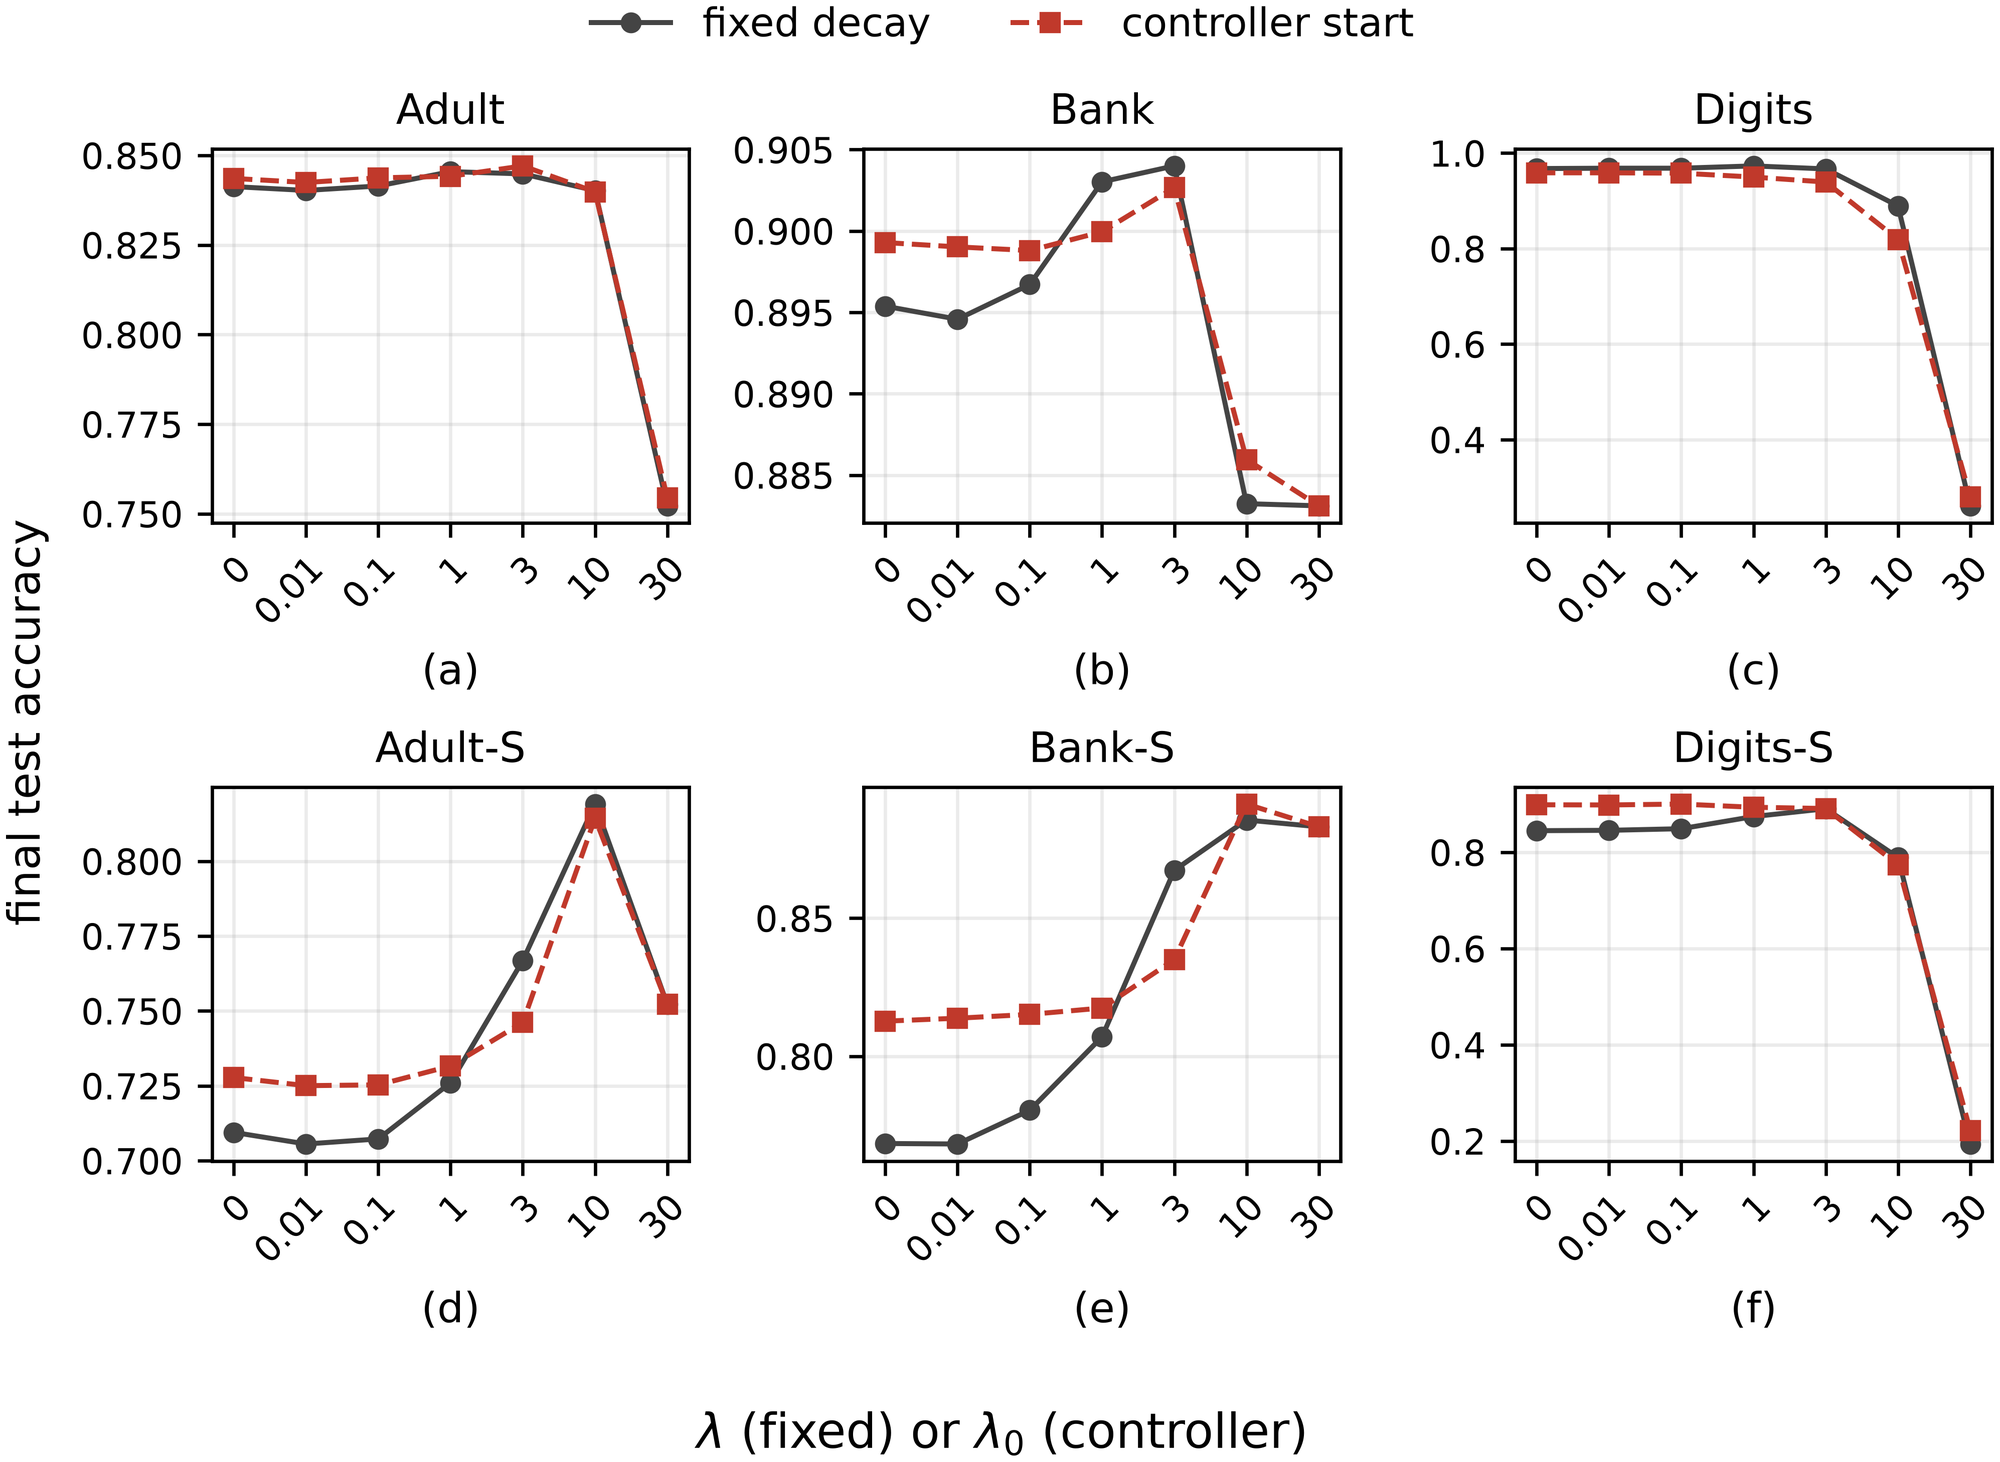
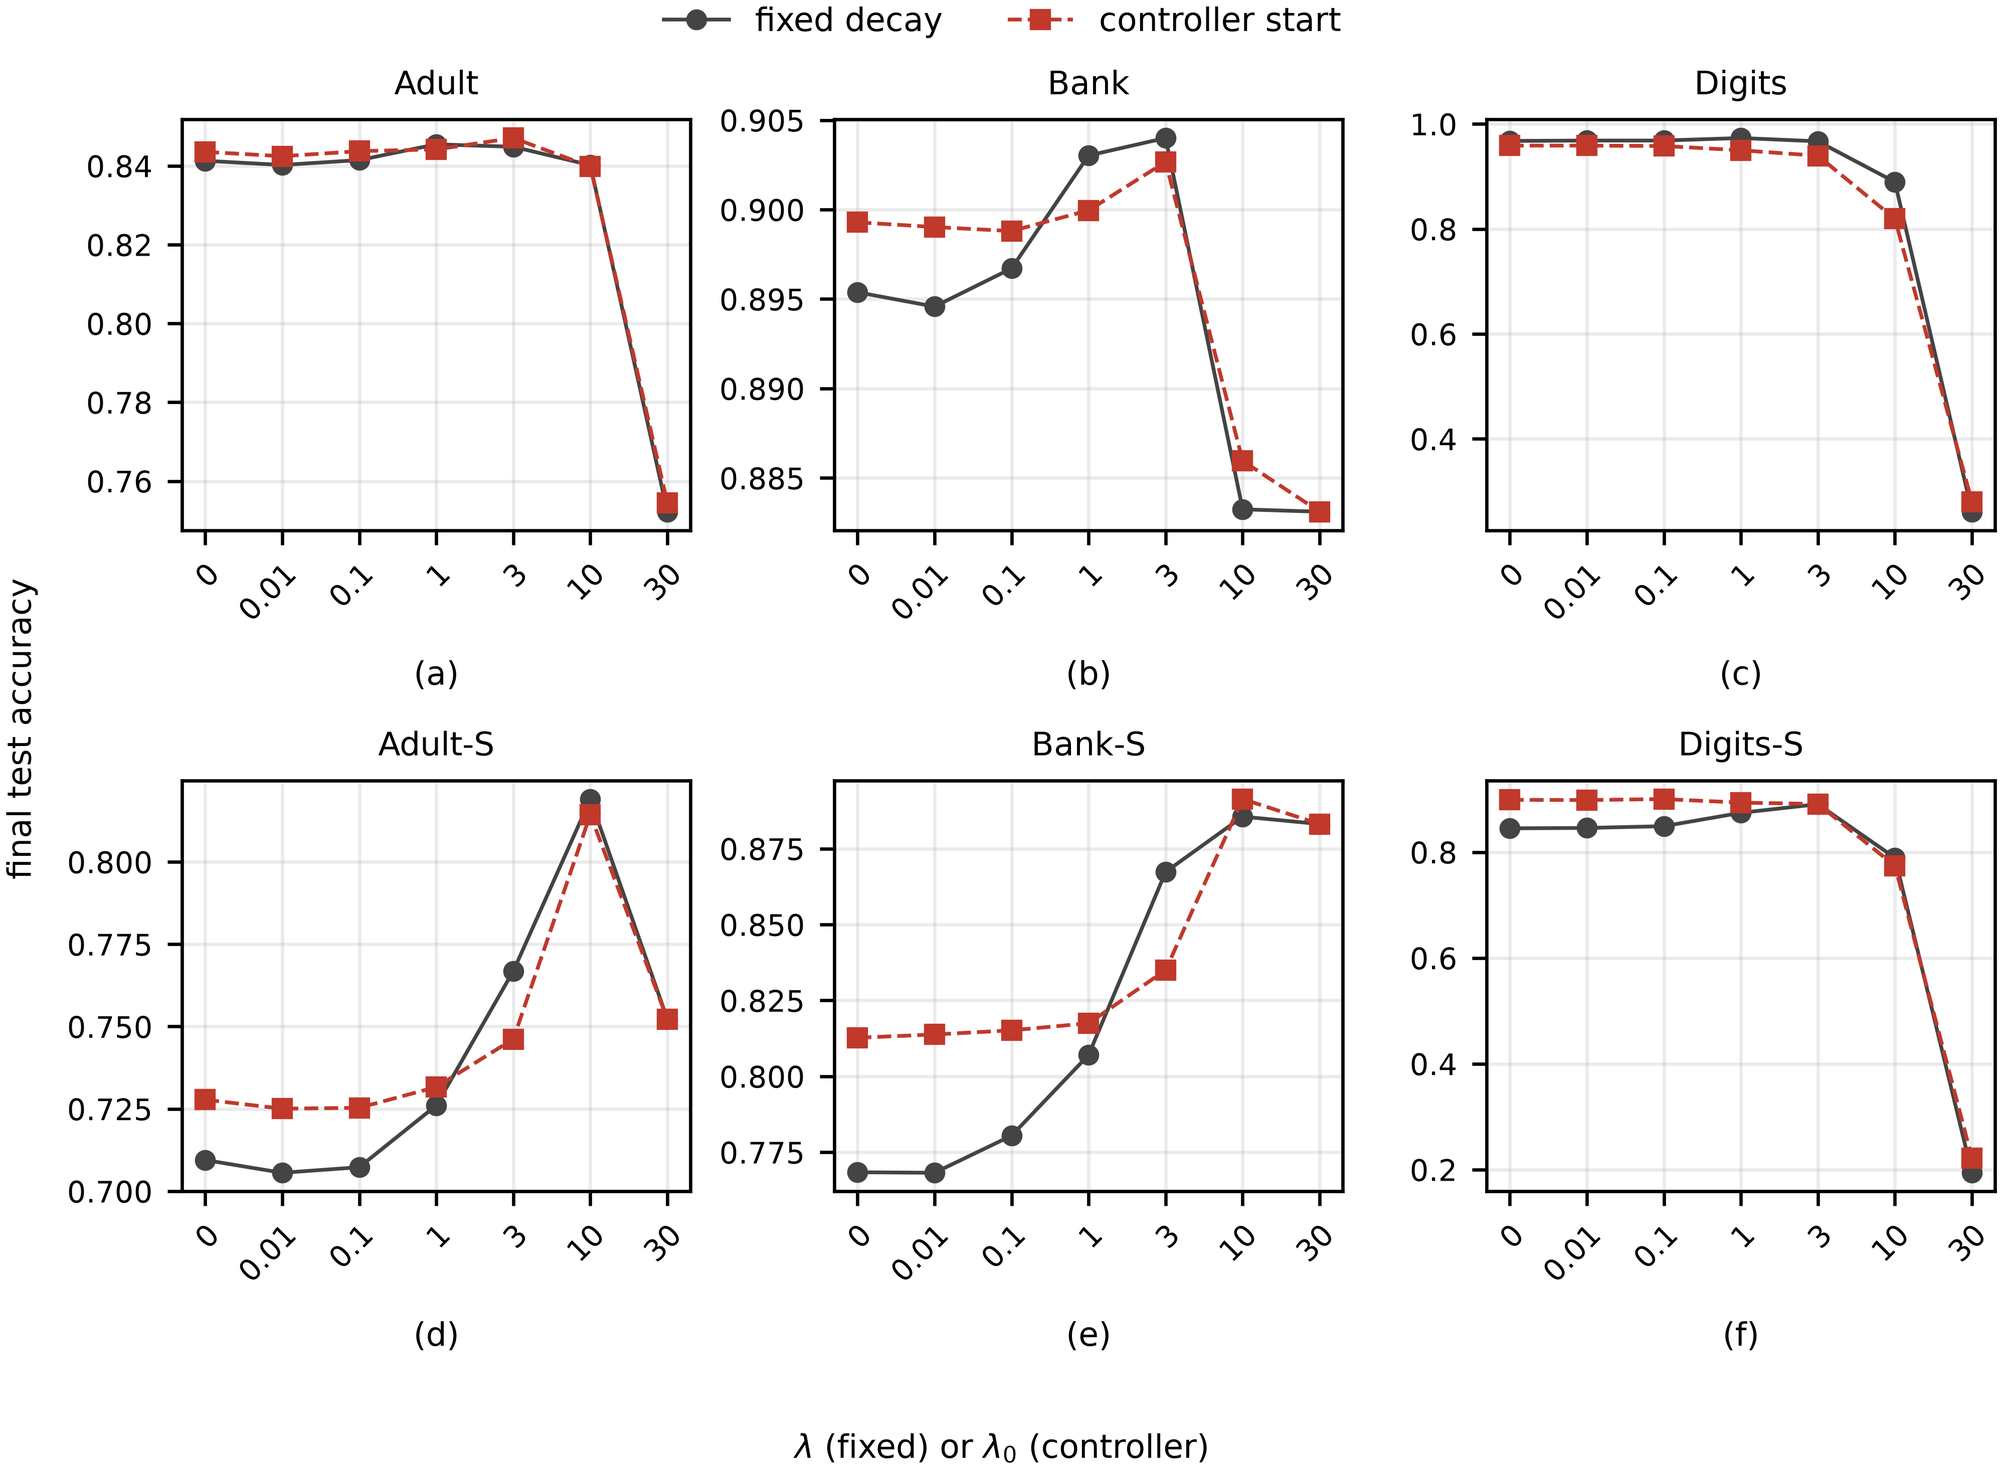
Refresh figure exports and plotting sources to the current study figures
The six PNGs in figures/ and the three plotting sources in src/predecessor/
now match the versions behind the study's current figures. The changes are
presentational (type sizes and line widths). VALIDATION.md records the
byte-identical regeneration from the committed result tables, and
SHA256SUMS.txt is refreshed for the changed files.

diff --git a/src/predecessor/make_figures_audit.py b/src/predecessor/make_figures_audit.py
@@ -8,6 +8,11 @@ fig4_signal_gap  : control signal and train-test gap, fixed lambda=0 vs controll
 fig5_baselines   : controller vs AdaDecay / AdamP / cosine / step (accuracy), 6 panels
 
 Outputs PNG (600 dpi) and vector PDF into the chosen figure directory.
+
+fig1, fig2 and fig4 print their tick labels at about 7.3 pt and every other
+text at about 8 pt, the scale of the streaming and Pareto figures, and every
+data line is three quarters of its earlier width (author requests,
+2026-09-30); the 7 pt print floor is kept.
 """
 from __future__ import annotations
 
@@ -18,6 +23,7 @@ import matplotlib
 
 matplotlib.use("Agg")
 import matplotlib.pyplot as plt  # noqa: E402
+from matplotlib.ticker import MaxNLocator  # noqa: E402
 import numpy as np  # noqa: E402
 import pandas as pd  # noqa: E402
 from PIL import Image, ImageChops, ImageOps  # noqa: E402
@@ -62,7 +68,7 @@ def add_panel_labels(axes, offset_pt: float | None = None) -> None:
                 textcoords="offset points",
                 ha="center",
                 va="top",
-                fontsize=10,
+                fontsize=7.8,
                 fontweight="normal",
                 annotation_clip=False,
             )
@@ -74,7 +80,7 @@ def add_panel_labels(axes, offset_pt: float | None = None) -> None:
             transform=ax.transAxes,
             ha="center",
             va="top",
-            fontsize=10,
+            fontsize=7.8,
             fontweight="normal",
             clip_on=False,
         )
@@ -126,29 +132,32 @@ def main() -> None:
         fx = [sub[(sub.method == "fixed") & np.isclose(sub.lam0, l)]["test_acc"].mean() for l in GRID]
         ct = [sub[(sub.method == "ctrl") & np.isclose(sub.lam0, l)]["test_acc"].mean() for l in GRID]
         x = xpos(GRID)
-        ax.plot(x, fx, "o-", label="fixed decay", color="#444", markersize=4, linewidth=1.2)
-        ax.plot(x, ct, "s--", label="controller start", color="#c0392b", markersize=4, linewidth=1.2)
-        ax.set_title(NICE[task], fontsize=10)
+        ax.plot(x, fx, "o-", label="fixed decay", color="#444", markersize=4, linewidth=0.9)
+        ax.plot(x, ct, "s--", label="controller start", color="#c0392b", markersize=4, linewidth=0.9)
+        ax.set_title(NICE[task], fontsize=7.8)
         ax.set_xticks(x)
         # Seven labels share about 1.6 in, so level labels touched ("0.00.010.1");
         # a 45-degree slant anchored at the tick keeps each one readable.
         ax.set_xticklabels([grid_label(l) for l in GRID], rotation=45, ha="right",
-                           rotation_mode="anchor", fontsize=8.5)
-        ax.tick_params(axis="y", labelsize=8.5)
+                           rotation_mode="anchor", fontsize=7.1)
+        ax.tick_params(axis="y", labelsize=7.1)
         ax.grid(alpha=0.25)
     handles, labels = axes[0, 0].get_legend_handles_labels()
-    fig.legend(handles, labels, fontsize=9.5, ncol=2, loc="upper center",
+    fig.legend(handles, labels, fontsize=7.8, ncol=2, loc="upper center",
                bbox_to_anchor=(0.5, 1.0), frameon=False)
-    # 11.5 pt keeps the lambda_0 subscript (0.7 of the label) above 8 pt in print.
-    fig.supxlabel(r"$\lambda$ (fixed) or $\lambda_0$ (controller)", fontsize=11.5)
-    fig.supylabel("final test accuracy", fontsize=10.5)
+    # The 7 pt floor is judged on the label; the lambda_0 subscript (0.7 of
+    # it) sits on the same horizontal line and inherits that verdict.
+    fig.supxlabel(r"$\lambda$ (fixed) or $\lambda_0$ (controller)", fontsize=7.8)
+    fig.supylabel("final test accuracy", fontsize=7.8)
     add_panel_labels(axes, offset_pt=31)
-    fig.tight_layout(rect=(0, 0, 1, 0.95), h_pad=0.8, w_pad=0.8)
+    fig.tight_layout(rect=(0, 0, 1, 0.97), h_pad=0.8, w_pad=0.8)
     save(fig, "fig1_sensitivity")
 
     # ---- fig2 lambda trajectories on noisy tasks, all starts ----
-    # Drawn at the printed width (about 6.84 in); the axis label and legend
-    # carry subscripts, so they stay at 11.5 pt to keep the subscript above 8 pt.
+    # Drawn at the printed width (about 6.84 in). The legend subscripts sit on
+    # horizontal lines and inherit their label's size; the rotated axis label
+    # names the coefficient as in Figure 5 ("controller lambda"), because a
+    # rotated subscript is measured as a run of its own under the 7 pt floor.
     fig, axes = plt.subplots(1, 3, figsize=(6.9, 3.1), sharey=True)
     for ax, task in zip(axes, NOISY):
         sub = tr[(tr.task == task) & (tr.method == "ctrl") & (tr.lr == lr0)]
@@ -162,17 +171,17 @@ def main() -> None:
             ax.plot(m.index, m.values, label=f"$\\lambda_0$={grid_label(lam0)}",
                     ls=TRAJ_STYLES[idx % len(TRAJ_STYLES)],
                     marker=TRAJ_MARKERS[idx % len(TRAJ_MARKERS)],
-                    markevery=(idx, 7), markersize=3.2, linewidth=1.1)
-        ax.set_title(NICE[task], fontsize=10)
-        ax.set_xlabel("epoch", fontsize=10)
-        ax.tick_params(axis="both", labelsize=8.5)
+                    markevery=(idx, 7), markersize=3.2, linewidth=0.825)
+        ax.set_title(NICE[task], fontsize=7.8)
+        ax.set_xlabel("epoch", fontsize=7.8)
+        ax.tick_params(axis="both", labelsize=7.1)
         ax.grid(alpha=0.25)
-    axes[0].set_ylabel(r"controller $\lambda_t$", fontsize=11.5)
+    axes[0].set_ylabel(r"controller $\lambda$", fontsize=7.8)
     handles, labels = axes[0].get_legend_handles_labels()
     fig.legend(
         handles,
         labels,
-        fontsize=11.5,
+        fontsize=7.8,
         ncol=4,
         loc="upper center",
         bbox_to_anchor=(0.5, 1.0),
@@ -183,7 +192,7 @@ def main() -> None:
     # Below the "epoch" label, not at a fraction of the short axes height,
     # where "(a)" printed on top of "epoch".
     add_panel_labels(axes, offset_pt=34)
-    fig.tight_layout(rect=(0, 0, 1, 0.80), w_pad=0.6)
+    fig.tight_layout(rect=(0, 0, 1, 0.90), w_pad=0.6)
     save(fig, "fig2_lambda_traj")
 
     # ---- fig3 bars: oracle/median/controller for acc, gap, ece ----
@@ -214,27 +223,34 @@ def main() -> None:
     save(fig, "fig3_bars")
 
     # ---- fig4 signal vs gap: fixed lambda=0 vs controller on Adult-S and Digits-S ----
-    # Drawn at the printed width (about 6.84 in). The right-axis label and one
-    # legend entry carry a subscript, so they stay at 11 pt (subscript > 7 pt).
-    fig, axes = plt.subplots(1, 2, figsize=(6.9, 3.3))
+    # Drawn at the printed width (about 6.84 in), so the sizes below print as
+    # set. The s_t symbol stays in the horizontal legend; the rotated
+    # right-axis label names the quantity without a subscript, which the 7 pt
+    # floor would measure as a run of its own. The y locators keep the tick
+    # sets of the earlier, shorter axes and the panel labels sit a fixed
+    # distance below the axes, so the plots fill the band the smaller legend
+    # left free while the printed height stays about 207 pt.
+    fig, axes = plt.subplots(1, 2, figsize=(6.9, 3.0))
     legend_handles, legend_labels = [], []
     for ax, task in zip(axes, ["adult_n20", "digits_n20"]):
         f0 = tr[(tr.task == task) & (tr.method == "fixed") & np.isclose(tr.lam0.fillna(-1), 0.0) & (tr.lr == lr0)]
         c0 = tr[(tr.task == task) & (tr.method == "ctrl") & np.isclose(tr.lam0.fillna(-1), 0.0) & (tr.lr == lr0)]
         fg = f0.groupby("ep")["gap"].mean()
         cg = c0.groupby("ep")["gap"].mean()
-        ax.plot(fg.index, fg.values, "-", label="gap (fixed $\\lambda$=0)", color="#444", linewidth=1.2)
-        ax.plot(cg.index, cg.values, "--", label="gap (controller)", color="#c0392b", linewidth=1.2)
+        ax.plot(fg.index, fg.values, "-", label="gap (fixed $\\lambda$=0)", color="#444", linewidth=0.9)
+        ax.plot(cg.index, cg.values, "--", label="gap (controller)", color="#c0392b", linewidth=0.9)
         if "s" in c0:
             cs = c0.groupby("ep")["s"].mean()
             ax2 = ax.twinx()
-            ax2.plot(cs.index, cs.values, ":", color="#2c7fb8", label="signal $s_t$ (ctrl)", linewidth=1.3)
-            ax2.set_ylabel("control signal $s_t$", fontsize=11)
-            ax2.tick_params(axis="y", labelsize=8.5)
-        ax.set_title(NICE[task], fontsize=10)
-        ax.set_xlabel("epoch", fontsize=10)
-        ax.set_ylabel("train-test gap", fontsize=10)
-        ax.tick_params(axis="both", labelsize=8.5)
+            ax2.plot(cs.index, cs.values, ":", color="#2c7fb8", label="signal $s_t$ (ctrl)", linewidth=0.975)
+            ax2.set_ylabel("control signal", fontsize=7.8)
+            ax2.tick_params(axis="y", labelsize=7.1)
+            ax2.yaxis.set_major_locator(MaxNLocator(nbins=7, steps=[1, 2, 2.5, 5, 10]))
+        ax.set_title(NICE[task], fontsize=7.8)
+        ax.set_xlabel("epoch", fontsize=7.8)
+        ax.set_ylabel("train-test gap", fontsize=7.8)
+        ax.tick_params(axis="both", labelsize=7.1)
+        ax.yaxis.set_major_locator(MaxNLocator(nbins=7, steps=[1, 2, 2.5, 5, 10]))
         ax.grid(alpha=0.25)
         if not legend_handles:
             handles, labels = ax.get_legend_handles_labels()
@@ -243,10 +259,10 @@ def main() -> None:
                 handles += signal_handles
                 labels += signal_labels
             legend_handles, legend_labels = handles, labels
-    add_panel_labels(axes)
-    fig.legend(legend_handles, legend_labels, fontsize=11, loc="upper center",
+    add_panel_labels(axes, offset_pt=33)
+    fig.legend(legend_handles, legend_labels, fontsize=7.8, loc="upper center",
                ncol=3, frameon=False, bbox_to_anchor=(0.5, 1.0), columnspacing=1.2)
-    fig.tight_layout(rect=(0, 0, 1, 0.88), w_pad=1.0)
+    fig.tight_layout(rect=(0, 0, 1, 0.95), w_pad=1.0)
     save(fig, "fig4_signal_gap")
 
     # ---- fig5 baselines vs controller (accuracy) ----

diff --git a/src/predecessor/make_q1_figures.py b/src/predecessor/make_q1_figures.py
@@ -80,13 +80,14 @@ def main():
         mk = "*" if is_controller else PARETO_MARKERS.get(lab, "o")
         ax.scatter([cost], [acc], s=160 if is_controller else 90, color=c, marker=mk, zorder=3, label=lab)
     # The figure prints at the column width (about 0.70 of its drawn width), so
-    # 12 pt ticks and legend print near 8.4 pt, level with the other figures.
-    ax.set_xlabel("training runs spent on decay selection (cost)", fontsize=12.5)
-    ax.set_ylabel("pooled test accuracy (18 task variants)", fontsize=12.5)
+    # 10.6 pt ticks and legend print near 7.4 pt: every size is 1.4 pt below the
+    # earlier set, one printed point (author request, 2026-09-30).
+    ax.set_xlabel("training runs spent on decay selection (cost)", fontsize=11.1)
+    ax.set_ylabel("pooled test accuracy (18 task variants)", fontsize=11.1)
     ax.set_xticks([1, 8])
-    ax.tick_params(axis="both", labelsize=12)
+    ax.tick_params(axis="both", labelsize=10.6)
     ax.grid(alpha=0.25)
-    ax.legend(fontsize=12, loc="lower right")
+    ax.legend(fontsize=10.6, loc="lower right")
     fig.tight_layout()
     save(fig, "fig_q1_pareto")
 
@@ -94,7 +95,9 @@ def main():
     clean = [f"{t}_full" for t in TAB]
     noisy = [f"{t}_n20" for t in TAB]
     # Drawn at the printed width (about 6.84 in), so the point sizes below print
-    # as set and no label falls under the 7 pt floor.
+    # as set: tick labels at about 7.3 pt and every other text at about 8 pt,
+    # the scale of the streaming and Pareto figures (author requests,
+    # 2026-09-30); no label falls under the 7 pt floor.
     fig, axes = plt.subplots(1, 2, figsize=(6.9, 3.3), sharey=True)
     handles = labels = None
     # Series and panel names follow the manuscript: rule A, rule B, corrupted.
@@ -111,9 +114,9 @@ def main():
         # Anchored at the tick, so each slanted name ends at its own group;
         # centre-rotated names ran together ("QSARWaveform").
         ax.set_xticklabels([TASK_LABEL[n.replace("_full", "").replace("_n20", "")] for n in grp],
-                           rotation=40, ha="right", rotation_mode="anchor", fontsize=8.5)
-        ax.tick_params(axis="y", labelsize=8.5)
-        ax.set_title(title, fontsize=10)
+                           rotation=40, ha="right", rotation_mode="anchor", fontsize=7.1)
+        ax.tick_params(axis="y", labelsize=7.1)
+        ax.set_title(title, fontsize=7.8)
         ax.grid(axis="y", alpha=0.25)
         handles, labels = ax.get_legend_handles_labels()
     for index, ax in enumerate(axes):
@@ -123,23 +126,24 @@ def main():
             f"({chr(97 + index)})",
             xy=(0.50, 0.0),
             xycoords="axes fraction",
-            xytext=(0, -50),
+            xytext=(0, -43),
             textcoords="offset points",
             ha="center",
             va="top",
-            fontsize=10,
+            fontsize=7.8,
             fontweight="normal",
             annotation_clip=False,
         )
-    axes[0].set_ylabel("test accuracy", fontsize=10)
+    axes[0].set_ylabel("test accuracy", fontsize=7.8)
     # The legend stays above the panels. Moving it below, as in
     # fig4_signal_gap, was tried and MEASURED: every variant enlarged the
     # largest blank band in the asset (12.15 percent to 22.03 percent at best),
     # because this figure's panel labels then sat 0.40 axes heights below the
-    # axes (they now sit a fixed 50 pt below, under the slanted task names).
-    fig.legend(handles, labels, fontsize=9.5, ncol=4, loc="upper center",
+    # axes (they now sit a fixed 43 pt below, under the slanted task names).
+    # The top band is sized to the 7.8 pt legend, about 8 pt above the titles.
+    fig.legend(handles, labels, fontsize=7.8, ncol=4, loc="upper center",
                bbox_to_anchor=(0.5, 0.99), frameon=False)
-    fig.tight_layout(rect=(0, 0, 1, 0.88))
+    fig.tight_layout(rect=(0, 0, 1, 0.95))
     save(fig, "fig_q1_regime")
     print("pooled: oracle %.3f valtuned %.3f ctrlB %.3f ctrlA %.3f adaD %.3f median %.3f" %
           (pm("oracle"), pm("valtuned"), pm("ctrlB"), pm("ctrlA"), pm("adadecay"), pm("median")))

diff --git a/src/predecessor/make_streaming_figure.py b/src/predecessor/make_streaming_figure.py
@@ -17,12 +17,15 @@ import numpy as np  # noqa: E402
 import pandas as pd  # noqa: E402
 from PIL import Image, ImageChops, ImageOps  # noqa: E402
 
+# The figure is placed at about 0.76 of its drawn width, so every size here is
+# 1.3 pt below the earlier set: the printed text is one point smaller (author
+# request, 2026-09-30).
 plt.rcParams.update({
-    "font.size": 12,
-    "axes.titlesize": 12,
-    "axes.labelsize": 11.5,
-    "xtick.labelsize": 11,
-    "ytick.labelsize": 11,
+    "font.size": 10.7,
+    "axes.titlesize": 10.7,
+    "axes.labelsize": 10.2,
+    "xtick.labelsize": 9.7,
+    "ytick.labelsize": 9.7,
 })
 
 STREAMS = ["electricity", "rotating_hyperplane", "sea"]
@@ -84,7 +87,7 @@ def main():
             textcoords="offset points",
             ha="center",
             va="top",
-            fontsize=12,
+            fontsize=10.7,
             fontweight="normal",
             annotation_clip=False,
         )
@@ -92,7 +95,7 @@ def main():
     fig.legend(
         handles,
         ["controller", "no decay", "best fixed"],
-        fontsize=12,
+        fontsize=10.7,
         ncol=3,
         loc="upper center",
         bbox_to_anchor=(0.5, 0.995),

diff --git a/VALIDATION.md b/VALIDATION.md
@@ -36,3 +36,19 @@ reproduced all six committed PNGs byte for byte (Python 3.12.7, matplotlib
 3.11.1, Pillow 12.3.0, NumPy 2.3.5, pandas 2.3.3). On the same environment
 `python reproduce.py` ended with `ANALYSIS_REPRODUCTION_PASS`, and the checksum
 manifest was regenerated for the changed files.
+
+## Figure refresh (2026-10-04)
+
+The six PNGs in `figures/` and the three plotting sources in `src/predecessor/`
+were updated again to the versions behind the study's current figures. The
+changes are presentational: smaller type sizes with the 7 pt print floor kept,
+and thinner data lines in the sensitivity, trajectory and signal-gap figures.
+No result table, statistic, configuration, or analysis source changed. Apart
+from these files and this note, every file in the checksum manifest is
+byte-identical to the 2026-09-29 snapshot.
+
+Run on the committed result tables alone, the three plotting sources
+reproduced all six committed PNGs byte for byte (Python 3.12.12, matplotlib
+3.11.1, Pillow 12.1.0, NumPy 2.5.2, pandas 2.3.3). The checksum
+manifest was regenerated for the changed files and `python reproduce.py
+--verify-only` passed.
